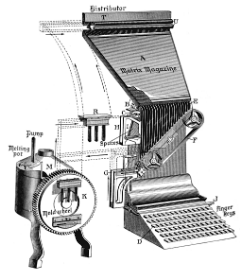
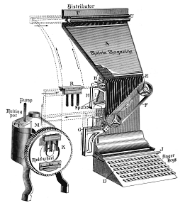
perf: poster do computador com prioridade alta e vinheta do título menor
A home reprovou no Lighthouse do CI por 15 ms de LCP (3315 contra 3300) e 0,92 de performance: no celular o poster entrou na primeira tela e é o LCP. fetchpriority=high no poster e vinheta de 180 px (19 KB em vez de 30 KB). Medido com CI=1: home 0,94-0,95, LCP ~3,0 s.

Claude-Session: https://claude.ai/code/session_01TYNdq6Xa4Zxip6yVfTFnEo

diff --git a/src/components/gazeta/MacViewer.tsx b/src/components/gazeta/MacViewer.tsx
@@ -271,6 +271,7 @@ export function MacViewer({ labels = DEFAULT_LABELS }: { labels?: MacViewerLabel
               height={1000}
               decoding="async"
               loading="eager"
+              fetchPriority="high"
               draggable={false}
               className={`pointer-events-none absolute top-0 left-1/2 h-full w-auto max-w-none -translate-x-1/2 transition-opacity duration-300 ${showPoster ? 'opacity-100' : 'opacity-0'}`}
             />

diff --git a/src/components/gazeta/Masthead.tsx b/src/components/gazeta/Masthead.tsx
@@ -12,8 +12,8 @@ function TitleWithMark({ title }: { title: string }) {
         src="/art/linotype-mark.webp"
         alt=""
         aria-hidden="true"
-        width={240}
-        height={280}
+        width={180}
+        height={210}
         decoding="async"
         className="inline-block h-[1.05em] w-auto align-[-0.525em] group-hover:invert"
       />{' '}
